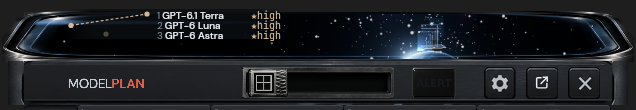
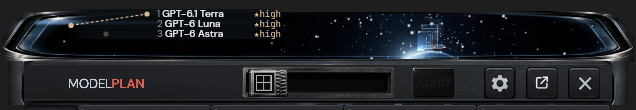
Evidence only: #716 after image at 5a3e6980

Changed region(s): [[0.239, 0.0818, 0.3585, 0.3545], [0.3884, 0.0818, 0.4481, 0.3545]]

diff --git a/evidence/README.md b/evidence/README.md
@@ -3,4 +3,4 @@
 Run 42438843168 (workflow `Evidence G3-46 G3-48` on this branch). Synthetic data only, no accounts.
 
 - G3-46: GitHub-hosted macos-15, 1024x768. Production entry (`EngineRowsEntry.make`), real public CLI as the bundled helper, official page; one click through `handleStatusClick`. The hosted runner never lays out the test process's status item, so the red square is a stand-in icon at a synthetic anchor (x = 380). Before = main f2497135 (cockpit centred on the icon, frame x = 73). After = #713 7f0496b6 (shell's left edge under the icon's left edge, frame x = 372 = 380 - 8). "Not enough window height to open" is main's height rule on a 768-pt screen (G3-39, #697), not part of this evidence.
-- G3-48: GitHub-hosted ubuntu-24.04-arm, headless WebKit (Playwright 1.55.0), the canonical official page at the native compact canvas 636x661, three published models with long names. Before = main f2497135; after = #716 353fa045.
+- G3-48: GitHub-hosted ubuntu-24.04-arm, headless WebKit (Playwright 1.55.0), the canonical official page at the native compact canvas 636x661, three published models with long names. Before = main f2497135; after = #716 5a3e6980 (run 42440187322, re-shot after the CSS fix).
